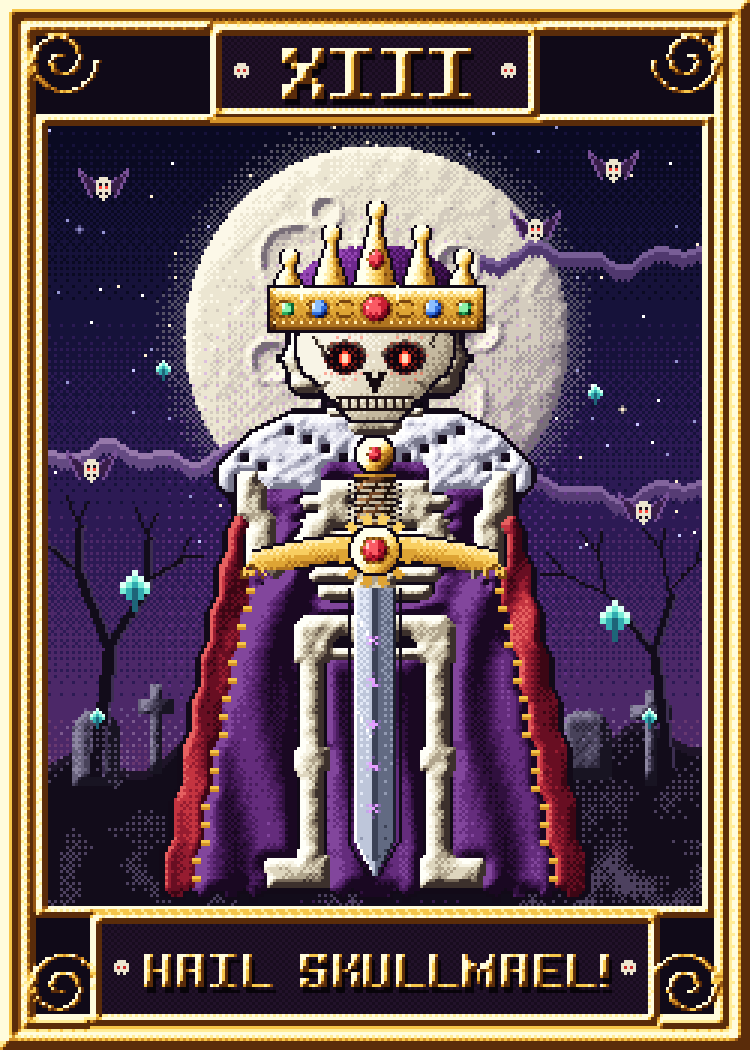
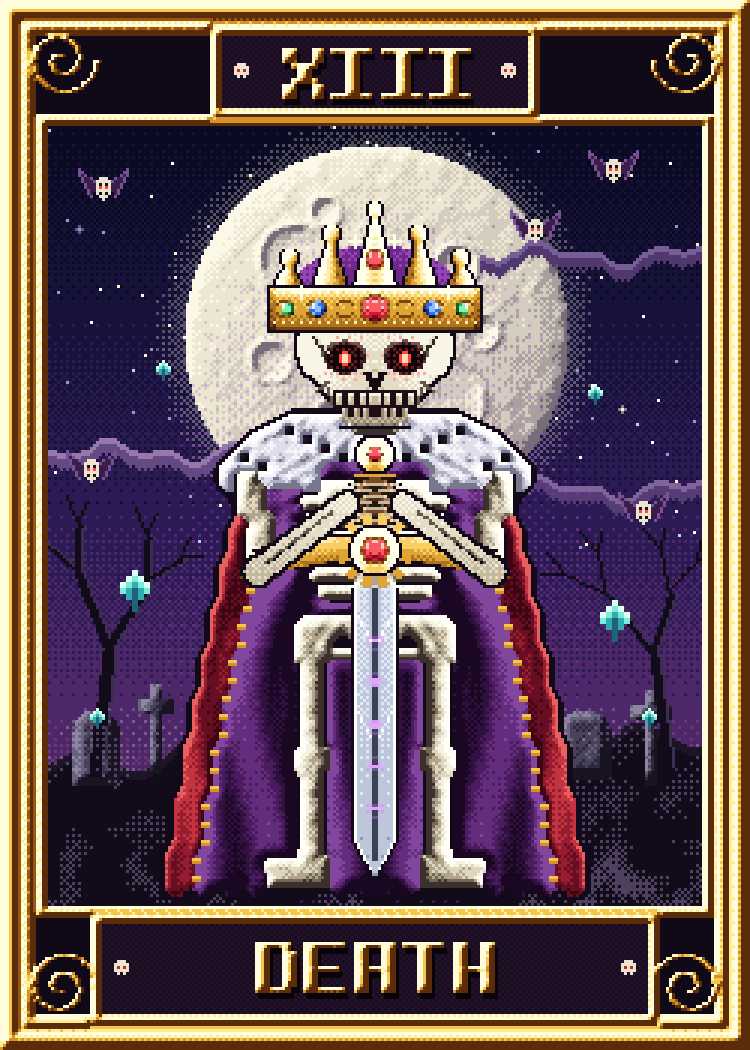
Tarot: DEATH, forearms, proper jaw, clean blade outline, enforced symmetry, no skull remnants
Claude-Session: https://claude.ai/code/session_01VrcjmiCcwnRFzcWeEK63jM

Changed region(s): [[0.3067, 0.1829, 0.7973, 0.8533], [0.184, 0.8838, 0.828, 0.9752]]

diff --git a/data/sleeve-proposals/generator/detail_skull_king.py b/data/sleeve-proposals/generator/detail_skull_king.py
@@ -28,7 +28,7 @@ def gem(cv,cx,cy,rx,ry,R):
             elif d<=1.45: px(cv,x,y,GOLD[1] if (x+y)%2 else GOLD[2])  # bezel
     px(cv,cx-rx*0.4,cy-ry*0.45,R[4]); px(cv,cx-rx*0.4+1,cy-ry*0.45,R[3]); px(cv,cx+rx*0.35,cy+ry*0.4,R[3])
 def draw_crown(cv):
-    CX=125
+    CX=124.5
     # velvet cap behind the points
     for y in range(80,98):
         for x in range(97,154):
@@ -37,7 +37,8 @@ def draw_crown(cv):
     # points (fleur spikes)
     pts=[(96,88),(110,80),(125,72),(140,80),(154,88)]
     for (tx,ty) in pts:
-        base=98; hw=6 if tx!=CX else 7
+        base=98; hw=6 if tx!=125 else 7
+        tx0=tx
         for y in range(ty,base+1):
             t=(y-ty)/(base-ty); w=max(1,hw*t**0.9)
             for x in range(int(tx-w),int(tx+w)+1):
@@ -70,8 +71,8 @@ def draw_crown(cv):
     for x in range(89,162): px(cv,x,95,OUT); px(cv,x,110,OUT)
     for y in range(95,111): px(cv,89,y,OUT); px(cv,161,y,OUT)
     # gems
-    gem(cv,CX,102.5,4.5,4.2,RUBY); gem(cv,106,102.5,2.8,2.8,SAPH); gem(cv,144,102.5,2.8,2.8,SAPH); gem(cv,95.5,102.5,2,2.4,EMER); gem(cv,154.5,102.5,2,2.4,EMER)
-    gem(cv,125,86,2.5,3,RUBY)
+    gem(cv,CX,102.5,4.5,4.2,RUBY); gem(cv,CX-19,102.5,2.8,2.8,SAPH); gem(cv,CX+19,102.5,2.8,2.8,SAPH); gem(cv,CX-29,102.5,2,2.4,EMER); gem(cv,CX+29,102.5,2,2.4,EMER)
+    gem(cv,CX,86,2.5,3,RUBY)
     # glints
     for (gx,gy) in [(100,97),(132,97),(118,80)]:
         for k in range(-2,3): px(cv,gx+k,gy,GOLD[6]); px(cv,gx,gy+k,GOLD[6])
@@ -101,7 +102,7 @@ def draw_sword(cv):
         for k in range(4):
             fy=hy+k*2
             for x in range(117,133):
-                if (x+k)%5==0: continue
+                if (x in (120,129) and k%2==0) or (x in (124,125) and k%2==1): continue
                 px(cv,x,fy,rampc(BONE,0.75-0.3*(x-117)/16,x,fy))
             px(cv,116,fy,OUT); px(cv,133,fy,OUT); 
         for x in range(117,133,5): px(cv,x,hy+7,BONE[1])
@@ -144,7 +145,15 @@ def draw_sword(cv):
                 if u<-0.85: c=STEEL[6]
                 if u>0.85: c=STEEL[0]
                 px(cv,x,y,c)
-        px(cv,CX-hw-1.5,y,OUT); px(cv,CX+hw+1.5,y,OUT)
+    # outline hugging the blade (computed from the drawn pixels)
+    bm=np.zeros((cv.h,cv.w),bool)
+    for y in range(196,293):
+        hw=7.0 if y<280 else 7.0*(292-y)/12
+        for x in range(int(CX-hw)-1,int(CX+hw)+2):
+            if abs((x-CX)/max(0.8,hw))<=1: bm[y,x]=True
+    ring=(cv2.dilate(bm.astype(np.uint8),np.array([[0,1,0],[1,1,1],[0,1,0]],np.uint8))>0)&~bm
+    for y,x in zip(*np.where(ring)):
+        if y>=196: px(cv,x,y,OUT)
     # diagonal specular glints on the blade
     for y0 in (204,236):
         for k in range(10): px(cv,CX-6+k*0.6,y0+k,STEEL[6]) if k%3!=2 else None
@@ -204,19 +213,77 @@ def draw_skull(cv):
     # cheekbone shadows
     for sx in (-1,1):
         for k in range(7): px(cv,CX+sx*(15+k*0.6),127+k*0.5,BONE[1])
-    # teeth
-    for y in (132,136):
-        for x in range(112,138):
-            if abs(x-CX)<=13-(y-132)*0.6: px(cv,x,y,(30,18,20))
-    for x in range(113,138,3):
-        for y in range(133,136):
-            if abs(x-CX)<=12: px(cv,x,y,(40,26,26))
-    for x in range(114,137,3): px(cv,x,133,BONE[5])
     # cracks
     crack=[(104,112),(105,113),(105,114),(106,115),(107,115),(107,116),(108,117)]
     for (x,y) in crack: px(cv,x,y,BONE[0]); px(cv,x+1,y,BONE[4])
     for (x,y) in [(145,111),(144,112),(144,113),(143,114),(144,115)]: px(cv,x,y,BONE[0])
+def bone_seg(cv,p0,p1,w):
+    m=np.zeros((cv.h,cv.w),bool)
+    n=int(max(abs(p1[0]-p0[0]),abs(p1[1]-p0[1]))*2)+1
+    for i in range(n):
+        t=i/(n-1); x=p0[0]+(p1[0]-p0[0])*t; y=p0[1]+(p1[1]-p0[1])*t
+        for yy in range(int(y-w)-1,int(y+w)+2):
+            for xx in range(int(x-w)-1,int(x+w)+2):
+                if (xx-x)**2+(yy-y)**2<=w*w: m[yy,xx]=True
+    return m
+def draw_forearms(cv):
+    for side in (-1,1):
+        el=(124.5+side*39,190.0); wr=(124.5+side*9,167.0)
+        dx,dy=wr[0]-el[0],wr[1]-el[1]; L=math.hypot(dx,dy); nx,ny=-dy/L,dx/L
+        mA=bone_seg(cv,(el[0]+nx*2.2,el[1]+ny*2.2),(wr[0]+nx*1.6,wr[1]+ny*1.6),1.9)   # ulna
+        mB=bone_seg(cv,(el[0]-nx*2.2,el[1]-ny*2.2),(wr[0]-nx*1.6,wr[1]-ny*1.6),1.7)   # radius
+        knob=np.zeros_like(mA); yy,xx=np.indices(knob.shape)
+        knob|=np.hypot(xx-el[0],yy-el[1])<=4.6
+        knob|=np.hypot(xx-wr[0],yy-wr[1])<=3.2
+        m=mA|mB|knob
+        ring=(cv2.dilate(m.astype(np.uint8),np.ones((3,3),np.uint8))>0)&~m
+        for y,x in zip(*np.where(ring)): px(cv,x,y,OUT)
+        for y,x in zip(*np.where(m)):
+            t=0.9-0.25*(y-167)/24
+            c=rampc(BONE,t,x,y)
+            px(cv,x,y,c)
+        # gap between the two bones
+        for i in range(4,int(L)-4):
+            t=i/L; x=el[0]+dx*t; y=el[1]+dy*t
+            px(cv,x,y,BONE[1])
+        px(cv,el[0]-1,el[1]-2,BONE[5]); px(cv,wr[0]-1,wr[1]-1,BONE[5])
+def draw_mouth(cv):
+    CX=124.5
+    DARK=(30,14,20)
+    # mouth cavity
+    for y in range(130,141):
+        for x in range(108,142):
+            u=abs(x-CX)
+            if u<=14-max(0,y-135)*1.4: px(cv,x,y,DARK)
+    # upper row: 8 teeth, individually outlined, lit from above
+    for i in range(7):
+        x0=int(round(CX-12+i*3.5))
+        for y in range(131,135):
+            for x in range(x0,x0+2):
+                c=BONE[5] if y==131 else (BONE[4] if y<134 else BONE[3])
+                if x==x0+1 and y>131: c=BONE[3]
+                px(cv,x,y,c)
+    # lower row: 7 teeth, slightly smaller, a bit darker (in shadow)
+    for i in range(6):
+        x0=int(round(CX-10.25+i*3.5))
+        for y in range(136,139):
+            for x in range(x0,x0+2):
+                c=BONE[4] if y==136 else BONE[3]
+                if x==x0+1: c=BONE[2]
+                px(cv,x,y,c)
+    # jaw bone under the lower teeth
+    for y in range(139,142):
+        for x in range(110,140):
+            u=abs(x-CX)
+            if u<=12-(y-139)*2: px(cv,x,y,rampc(BONE,0.55-0.1*(y-139),x,y))
+    for x in range(108,142):
+        if abs(x-CX)<=12: px(cv,x,142,OUT)
+    # jaw hinges
+    for side in (-1,1):
+        for k in range(6): px(cv,CX+side*(15-k*0.2),129+k,BONE[1])
 def draw_all(cv,KX,KY):
     draw_skull(cv)
+    draw_mouth(cv)
     draw_crown(cv)
     draw_sword(cv)
+    draw_forearms(cv)

diff --git a/data/sleeve-proposals/generator/art_skelking.py b/data/sleeve-proposals/generator/art_skelking.py
@@ -91,26 +91,27 @@ def build(props=True):
         for y in range(37,66): g[y+OY][24]='S'
     # ---- neck ----
     rect(21,16,23,18,'b')
-    # ---- skull ----
-    for y in range(4,17):
-        for x in range(14,24):
-            d=((x-23.5)/9.5)**2+((y-10)/6.8)**2
-            if y>13: d=((x-23.5)/6.5)**2+((y-10)/6.8)**2
-            if d<=1: P(x,y,'B')
-    # skull shading
-    for y in range(4,17):
-        for x in range(14,24):
-            if g[y+OY][x]=='B' and (x<16 or y>14): P(x,y,'b')
-    # eye sockets
-    rect(17,9,20,11,'X'); P(17,9,'b'); P(16,10,'X'); P(20,12,'X')
-    P(18,10,'R'); P(19,10,'r'); P(18,9,'r')
-    # nose
-    P(23,12,'X'); P(22,13,'X')
-    # teeth
-    for x in range(19,24): P(x,15,'X' if x%2 else 'B')
-    rect(19,14,23,14,'b'); rect(19,16,23,16,'c')
-    # cheekbone
-    P(16,12,'c'); P(17,13,'c')
+    if props:
+        # ---- skull ----
+        for y in range(4,17):
+            for x in range(14,24):
+                d=((x-23.5)/9.5)**2+((y-10)/6.8)**2
+                if y>13: d=((x-23.5)/6.5)**2+((y-10)/6.8)**2
+                if d<=1: P(x,y,'B')
+        # skull shading
+        for y in range(4,17):
+            for x in range(14,24):
+                if g[y+OY][x]=='B' and (x<16 or y>14): P(x,y,'b')
+        # eye sockets
+        rect(17,9,20,11,'X'); P(17,9,'b'); P(16,10,'X'); P(20,12,'X')
+        P(18,10,'R'); P(19,10,'r'); P(18,9,'r')
+        # nose
+        P(23,12,'X'); P(22,13,'X')
+        # teeth
+        for x in range(19,24): P(x,15,'X' if x%2 else 'B')
+        rect(19,14,23,14,'b'); rect(19,16,23,16,'c')
+        # cheekbone
+        P(16,12,'c'); P(17,13,'c')
     # ---- crown ----
     if props:
         rect(13,3,23,5,'G'); rect(13,6,23,6,'g')

diff --git a/data/sleeve-proposals/generator/v2_05_tarot.py b/data/sleeve-proposals/generator/v2_05_tarot.py
@@ -89,6 +89,7 @@ for y in range(AY0,AY1):
         if dd<95 and BAYER4[y%4,x%4]<(1-dd/95)*0.35:
             cv.px(x,y,lerp(tuple(cv.a[y,x]),(150,60,200),0.3))
 # ---------- king ----------
+_bg=cv.a.copy()
 king=SK2.build_rgba(props=False)
 kh,kw=king.shape[:2]
 KX,KY=125-kw//2,AY1-kh+2
@@ -106,6 +107,14 @@ for y in range(kh):
 # ---------- detailed parts (drawn at full resolution) ----------
 import detail_skull_king as DK
 DK.draw_all(cv,KX,KY)
+# symmetry: copy the left half of the figure (only pixels the figure pass changed) onto the right half
+_drawn=cv.a.copy(); _chg=np.any(_drawn!=_bg,axis=2)
+for y in range(H):
+    for x in range(125,KX+kw+2):
+        xm=249-x
+        if 0<=xm<W:
+            if _chg[y,xm]: cv.a[y,x]=_drawn[y,xm]
+            elif _chg[y,x]: cv.a[y,x]=_bg[y,x]
 # ---------- soul wisps ----------
 def wisp(x,y,s=1):
     F=[(220,255,245),(120,236,214),(50,170,176),(30,100,120)]
@@ -186,7 +195,7 @@ def gold_text(t,size,cx,cy):
             if m[yy_,xx_]: cv.px(x0+xx_+1,y+yy_+2,(8,4,10))
     relief(cv,TH2,np.zeros((H,W),np.int32),[GOLD],TM2,k=1.2,bias=0.12,blur=0.4)
 gold_text('XIII',24,125,24)
-gold_text('HAIL SKULLMAEL!',16,125,323)
+gold_text('DEATH',24,125,323)
 # plate ornaments: small skulls
 def tiny_skull(x,y):
     S=[".###.","#####","#.#.#","#####",".#.#."]
